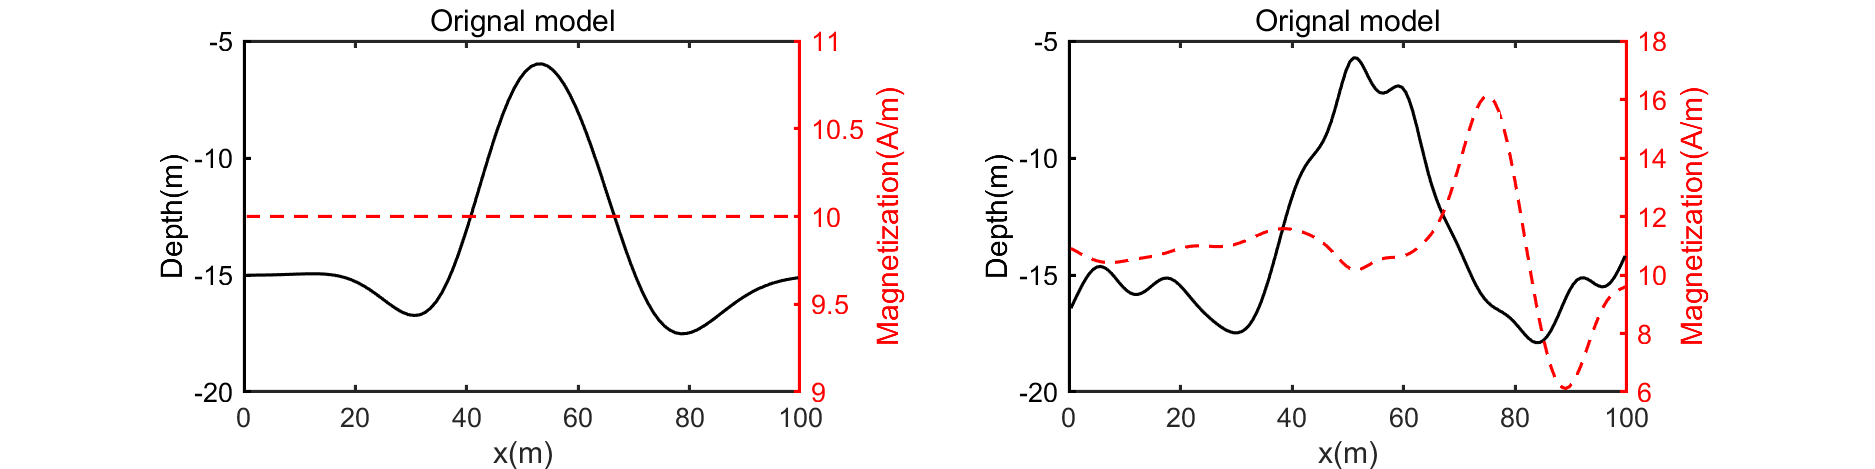
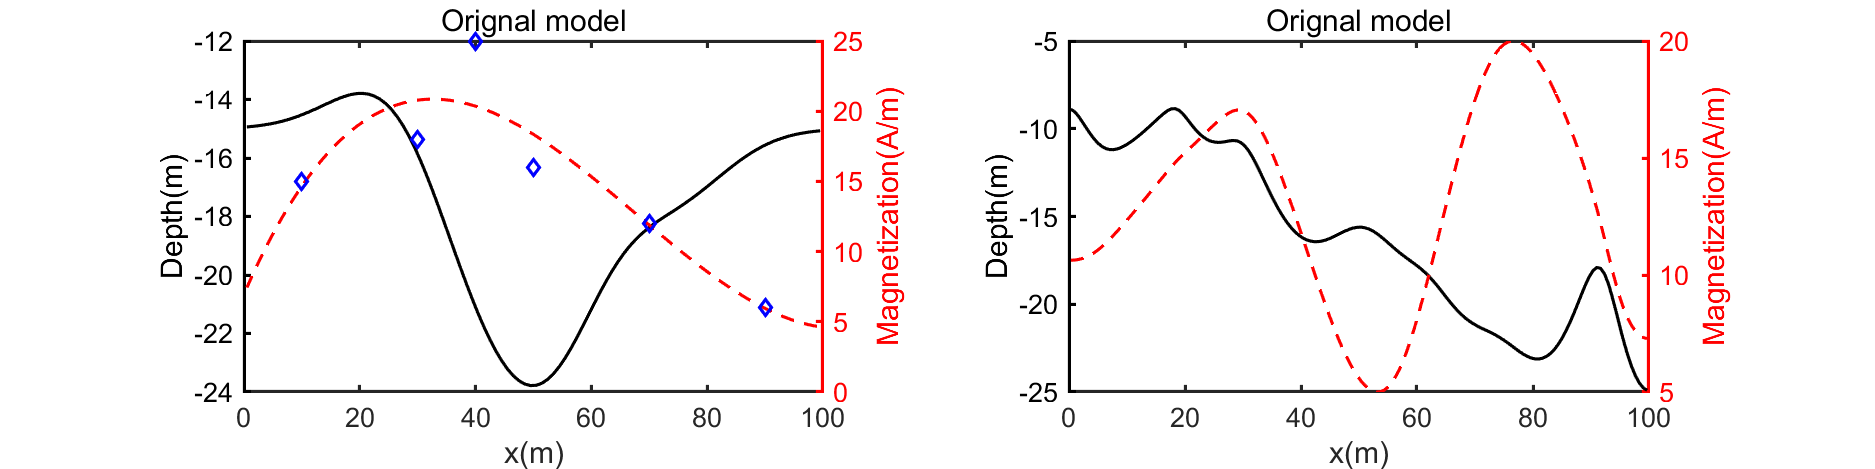
invert Zup and M

diff --git a/invert_z_up_and_M.m b/invert_z_up_and_M.m
@@ -16,8 +16,8 @@ function [recover_model, recover_M, Rms] = invert_z_up_and_M(maxit, max_lambda, 
     I = ones(size(inv_z_up_0, 1));  % A [MM * MM] unit matrix
     [Hax_m0, Za_m0, delta_T_m0] = magnetic_forward_2D_Guan(x_observation, z_observation,...
                                                     inv_x_left, inv_x_right, inv_z_up_0, inv_z_buttom, M_0, Is);
-        Rms(1, 1) = ((observation_Delta_T - delta_T_m0)'...
-                            *(W_d' * W_d)*(observation_Delta_T - delta_T_m0))/(length(observation_Delta_T));
+        Rms(1, 1) = sqrt(((observation_Delta_T - delta_T_m0)'...
+                            *(W_d' * W_d)*(observation_Delta_T - delta_T_m0))/(length(observation_Delta_T)));
         disp(['Lambda = ', num2str(lambda), '       ', 'misfit = ', num2str(Rms(1, 1))]);
         misfit_last = Rms(1,1);
     for k = 1 : num_lambda
@@ -48,14 +48,14 @@ function [recover_model, recover_M, Rms] = invert_z_up_and_M(maxit, max_lambda, 
             end
             M_0 = M_0 + delta_M;
             % 加入 上下限约束 - 约束岩石的物性在先验资料的磁化率范围内  -  使用归一化方法
-            if (max(M_0) > M_max || min(M_0) < M_min) % 上下限约束 -  约束基岩的上界面只能在 [0, model_z_buttom]
-                    M_0 = M_min + (max(M_0) + 1 - M_0)./ (max(M_0) - min(M_0)) * (M_max - M_min);
+            if (max(M_0) > M_max || min(M_0) < M_min) % 上下限约束 -  约束基岩的磁化强度只能在[M_min, M_max]
+                    M_0 = M_min + ((M_0) - min(M_0))./ (max(M_0) - min(M_0)) * (M_max - M_min);
             end
             
             [Hax_m0, Za_m0, delta_T_m0] = magnetic_forward_2D_Guan(x_observation, z_observation,...
                                                     inv_x_left, inv_x_right, inv_z_up_0, inv_z_buttom, M_0, Is);
-            Rms(k, j + 1) = ((observation_Delta_T - delta_T_m0)'...
-                             *W_d' * W_d*(observation_Delta_T - delta_T_m0))/(length(observation_Delta_T));
+            Rms(k, j + 1) = sqrt(((observation_Delta_T - delta_T_m0)'...
+                             *W_d' * W_d*(observation_Delta_T - delta_T_m0))/(length(observation_Delta_T)));
             misfit_last = Rms(k, j + 1);
             disp(['Lambda = ', num2str(lambda), '       ', 'misfit = ', num2str(Rms(k, j + 1))]);
             if misfit_last < misfit_target

diff --git a/Data_produce.m b/Data_produce.m
@@ -25,7 +25,7 @@ x_model = (x_start + diff/2 : diff : x_end - diff/2)';
 x_model_left = (x_start : diff : x_end - diff)';
 x_model_right = (x_start + diff : diff : x_end)';
 % Uneven magnetization ampitude -- polynomial 
-x0 = [20, 30, 40, 50, 70, 90];  % 通过已知几点的磁化强度 拟合 全区域横向磁化强度变化函数表达式
+x0 = [10, 30, 40, 50, 70, 90];  % 通过已知几点的磁化强度 拟合 全区域横向磁化强度变化函数表达式
 y0 = [15, 18, 25, 16, 12, 6];
 m = [3];      % 确定用几阶多项式拟合
 x = x_model'; %确定拟合范围
@@ -42,10 +42,10 @@ for k = 1: size(m, 1)
     end
 end
 % 选择用 常量 or 多项式 磁化强度
-M = M * ones(N,1);   % constant
-% M = y';              % ploynamial
+% M = M * ones(N,1);   % constant
+M = y';              % ploynamial
 % Random data in peaks(N) : n
-n = 27; 
+n = 77; 
 grid = peaks(N);
 % Original model 
 model_z_up = average_depth - 3 * grid(:, n) + 5;
@@ -96,7 +96,7 @@ epsilon = 0.05;
 noise = 2*(0.5-rand(size(Delta_T)))* epsilon .* Delta_T;
 observation_Delta_T = Delta_T + noise;
 save('magnetic_responce','x_model', 'x_model_left', 'x_model_right', 'model_z_up','model_z_buttom',...
-        'x_observation', 'z_observation', 'Hax', 'Za', 'Delta_T', 'observation_Delta_T', 'M', 'coeff_M');
+        'x_observation', 'z_observation', 'Hax', 'Za', 'Delta_T', 'observation_Delta_T', 'M', 'coeff_M', 'x0', 'y0');
 
 
 
@@ -118,6 +118,8 @@ ax = gca;
 ax.YColor = 'k';
 yyaxis right;
 plot(x_model, M, 'r--', 'Linewidth', LineWidth)
+hold on
+plot(x0, y0, 'bd', 'Linewidth', LineWidth)
 ylabel('Magnetization(A/m)')
 ax = gca;
 ax.YColor = 'r';

diff --git a/Inversion_with_Zup_and_M.m b/Inversion_with_Zup_and_M.m
@@ -44,7 +44,7 @@ misfit_target = 1; % \Phi_d/ Number of observation
 lambda = 1;
 % Intital number of regularization factor 
 max_lambda = 100;
-num_lambda = 10;
+num_lambda = 15;
 % Cooling coefficient 
 cooling_rate = 0.6;
 % Calculate data covariance matrix -Wd- and model covariance matrix -Wm- 
@@ -77,11 +77,11 @@ end
 
 %% Start inversion
 % inversion model magnetization M --> M and model_z_up --> m_0
-W_m = W_m_2;
+W_m = W_m_1;
 M_0 = 1 * ones(inv_N, 1);
 m_0 = inv_z_buttom/2 * ones(inv_N, 1);
 M_ref_min = 5;
-M_ref_max = 15;
+M_ref_max = 20;
 tic % 计时
 % [recover_model, recover_M, Rms] = invert_z_up_and_constant_M(maxit, max_lambda, num_lambda, cooling_rate,...
 %                                         observation_Delta_T, x_observation, ...
@@ -116,6 +116,8 @@ ax = gca;
 ax.YColor = 'k';
 yyaxis right;
 plot(x_model, M, 'r--', 'Linewidth', LineWidth)
+hold on
+plot(x0, y0, 'bd', 'Linewidth', LineWidth)
 ylabel('Magnetization(A/m)')
 ax = gca;
 ax.YColor = 'r';
